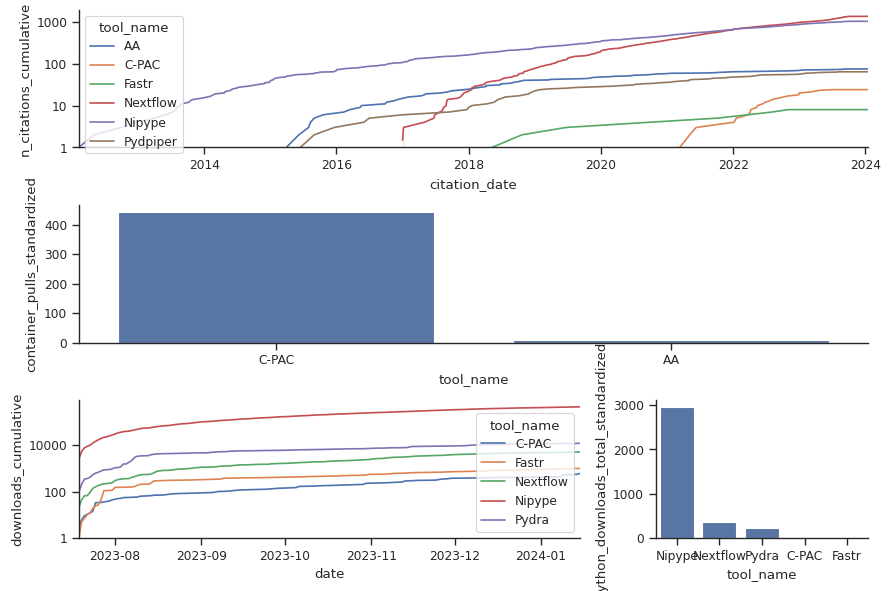
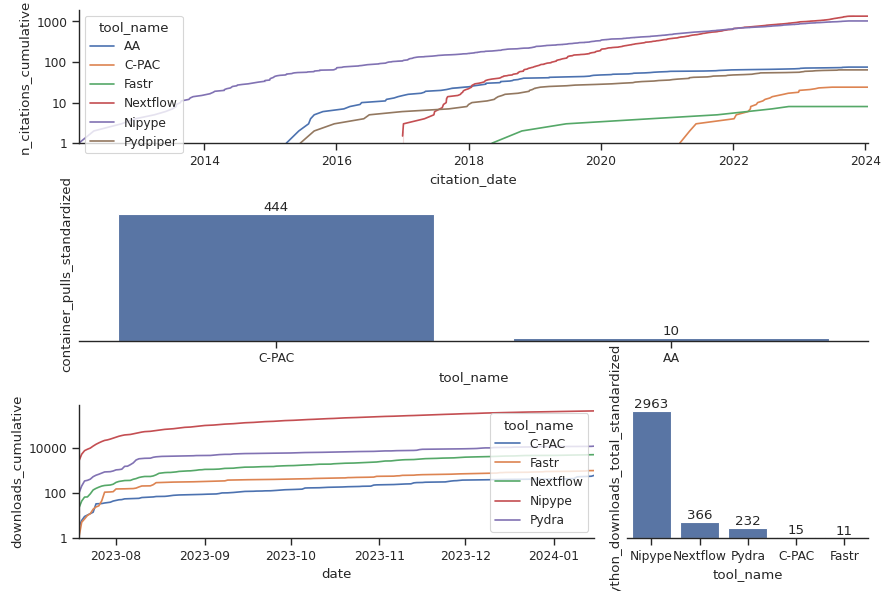
refactor/update barplots

diff --git a/code/generate_figures.py b/code/generate_figures.py
@@ -20,7 +20,7 @@ from utils import (
     generate_col_standardized,
 )
 from metrics import compute_metrics
-from plotting import plot_timeseries
+from plotting import plot_timeseries, plot_bar
 
 def plot_citations(df_metrics: pd.DataFrame, ax=None) -> plt.Axes:
 
@@ -71,13 +71,12 @@ def plot_citations(df_metrics: pd.DataFrame, ax=None) -> plt.Axes:
     return ax
 
 def plot_containers_pulls(df_metrics: pd.DataFrame, ax=None) -> plt.Axes:
-    ax = sns.barplot(
+    ax = plot_bar(
         data=df_metrics.sort_values(generate_col_standardized(COL_CONTAINER_PULLS), ascending=False),
-        y=generate_col_standardized(COL_CONTAINER_PULLS),
         x=COL_NAME,
+        y=generate_col_standardized(COL_CONTAINER_PULLS),
         ax=ax,
     )
-    ax.set_ylim(bottom=0)
     return ax
 
 def plot_python_timeseries(df_metrics: pd.DataFrame, ax=None) -> plt.Axes:
@@ -137,13 +136,12 @@ def plot_python_timeseries(df_metrics: pd.DataFrame, ax=None) -> plt.Axes:
     return ax
 
 def plot_python_total(df_metrics: pd.DataFrame, ax=None) -> plt.Axes:
-    ax = sns.barplot(
+    ax = plot_bar(
         data=df_metrics.sort_values(generate_col_standardized(COL_PYTHON_DOWNLOADS_TOTAL), ascending=False),
         y=generate_col_standardized(COL_PYTHON_DOWNLOADS_TOTAL),
         x=COL_NAME,
         ax=ax,
     )
-    ax.set_ylim(bottom=0)
     return ax
 
 def generate_figures(
@@ -271,7 +269,6 @@ def generate_figures(
                 ax=ax_python_total,
             )
 
-        sns.despine()
         fig.tight_layout()
 
         section_name_clean = section.lower()

diff --git a/code/plotting.py b/code/plotting.py
@@ -8,7 +8,12 @@ def plot_timeseries(data, x, y, **kwargs):
     ax.get_yaxis().set_major_formatter(FormatStrFormatter('%.0f'))
     ax.set_ylim(bottom=1)
     ax.set_xlim(left=min(data[x]), right=max(data[x]))
+    sns.despine(ax=ax)
     return ax
 
-def plot_bar():
-    pass
+def plot_bar(data, x, y, **kwargs):
+    ax = sns.barplot(data=data, x=x, y=y, **kwargs)
+    ax.bar_label(ax.containers[-1], fmt='%.0f')
+    ax.set_yticks([])
+    sns.despine(ax=ax, left=True)
+    return ax
